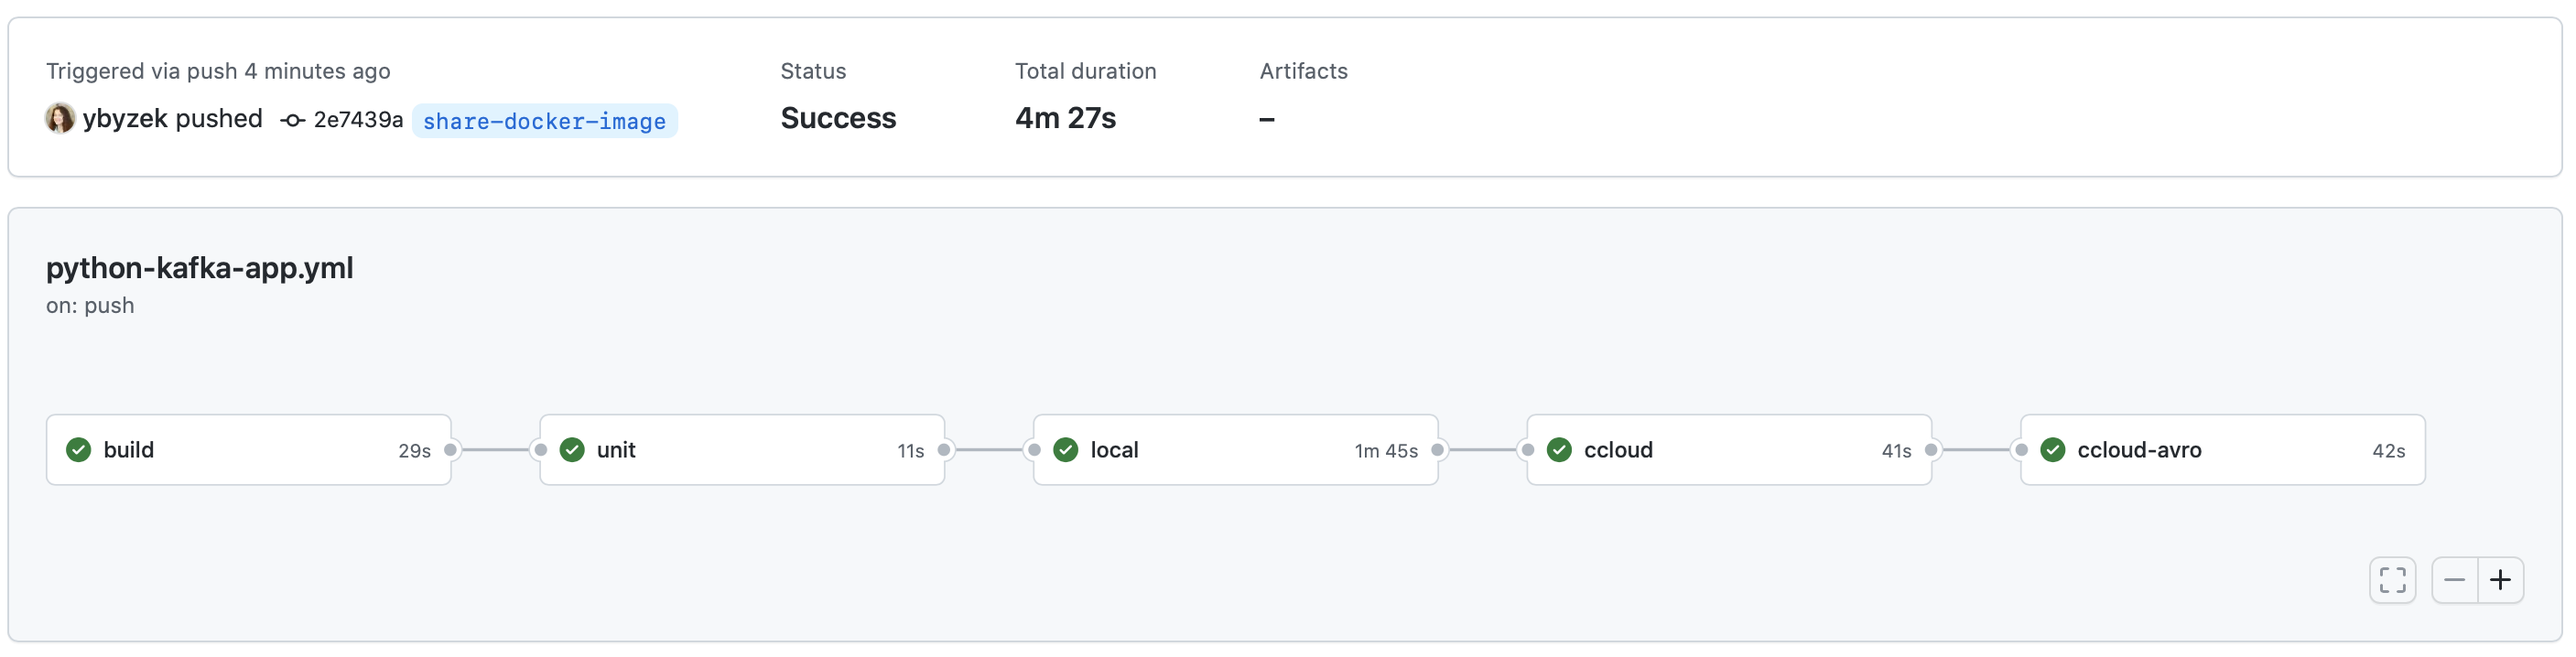
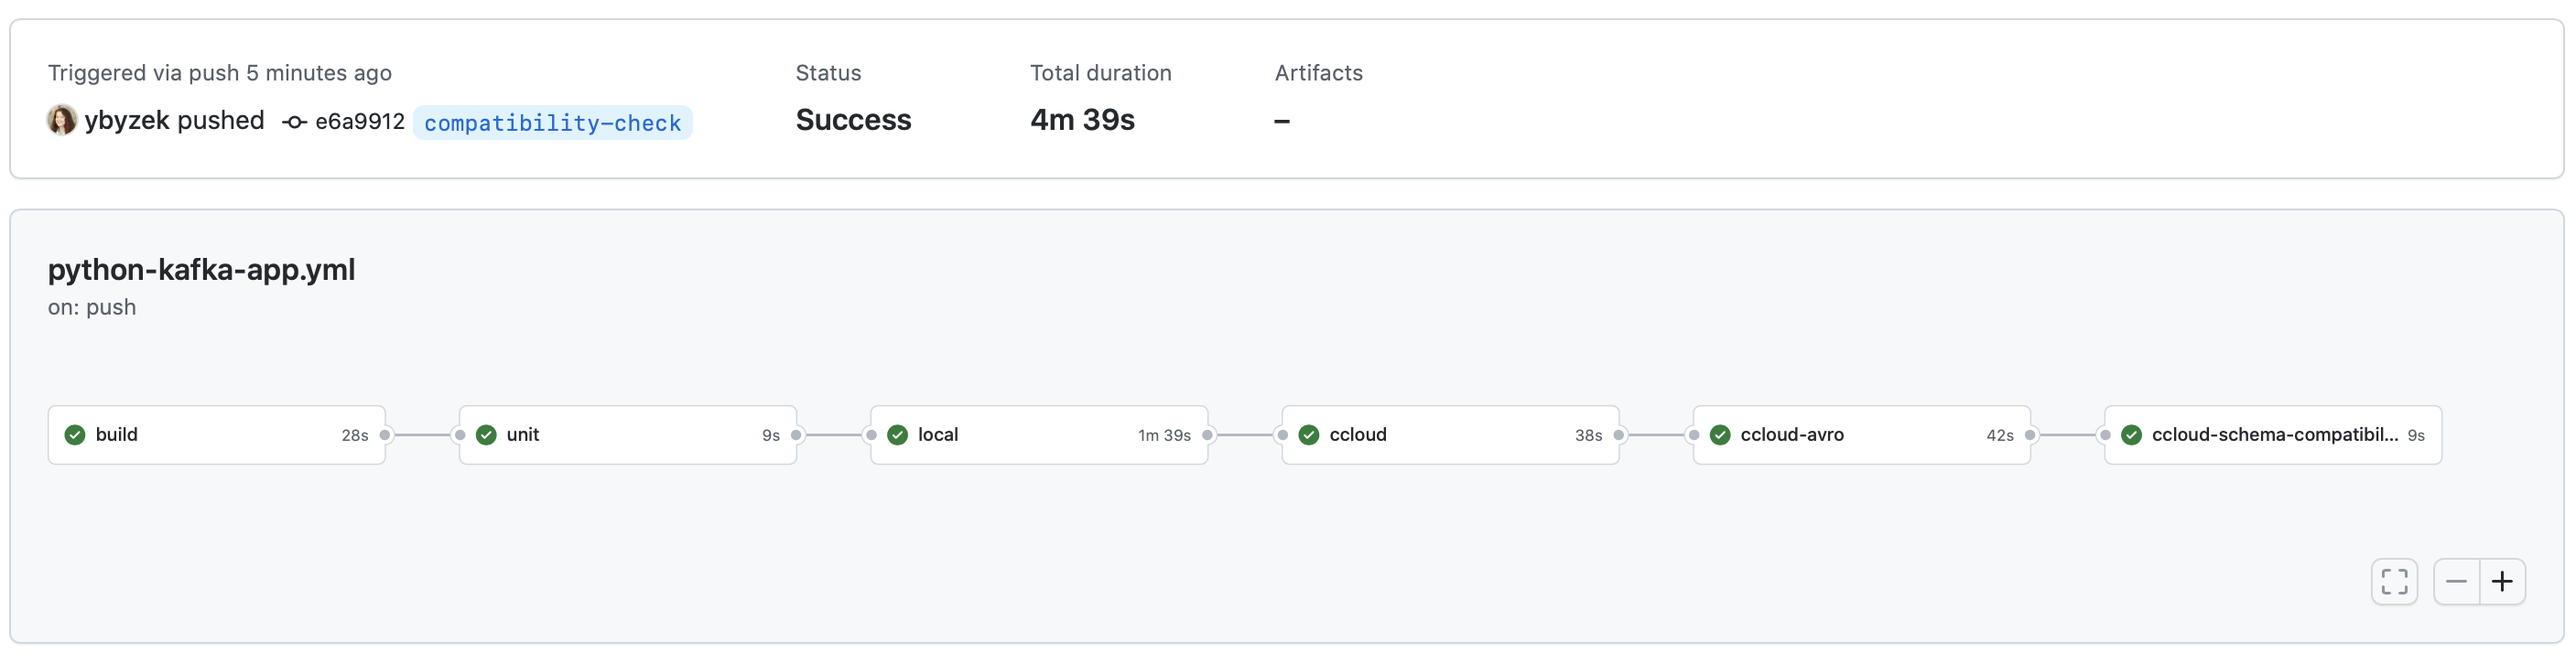
Update png and README

diff --git a/README.md b/README.md
@@ -2,20 +2,20 @@
 
 This demo uses [GitHub Actions](https://docs.github.com/en/actions) for developing and valiating Apache Kafka client application, focusing on a Python producer and consumer using [Kafka Python Client](https://docs.confluent.io/kafka-clients/python/current/overview.html).
 
-It has a workflow with 5 stages:
+It has a workflow that demonstrates a few capabilities:
 
-- Build image
+- Build Docker image
 - Unit test
-- Local with Docker
+- Local test with [cp-all-in-one](https://docs.confluent.io/platform/current/tutorials/build-your-own-demos.html#cp-all-in-one)
 - Confluent Cloud
 - Confluent Cloud with Schema Registry
+- Schema compatibility checking
 
 ![image](images/jobs.png)
 
-
 ## Setup
 
-1. Provision a fully-managed Kafka cluster and Schema Registry on [Confluent Cloud](https://www.confluent.io/confluent-cloud/tryfree-v1). You can do this on your own or use [ccloud-stack](https://docs.confluent.io/platform/current/tutorials/examples/ccloud/docs/ccloud-stack.html#ccloud-stack) to programmatically create a stack of fully managed services in Confluent Cloud.
+1. Provision a fully-managed Kafka cluster and Schema Registry on Confluent Cloud. You can follow the [quickstart](https://developer.confluent.io/quickstart/kafka-on-confluent-cloud/) or use [ccloud-stack](https://docs.confluent.io/platform/current/tutorials/examples/ccloud/docs/ccloud-stack.html) to programmatically create a stack of fully managed services in Confluent Cloud.
 
 2. In your GitHub account, create [Encrypted Secrets](https://docs.github.com/en/actions/security-guides/encrypted-secrets) for:
 
